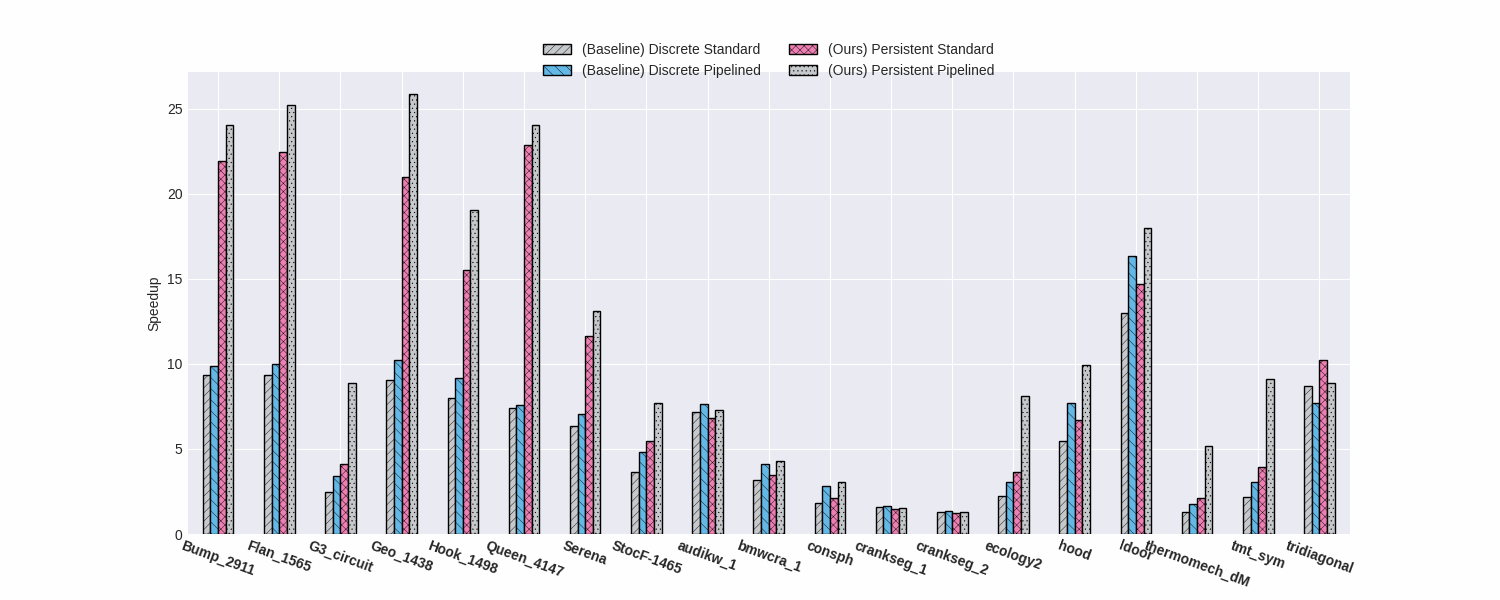
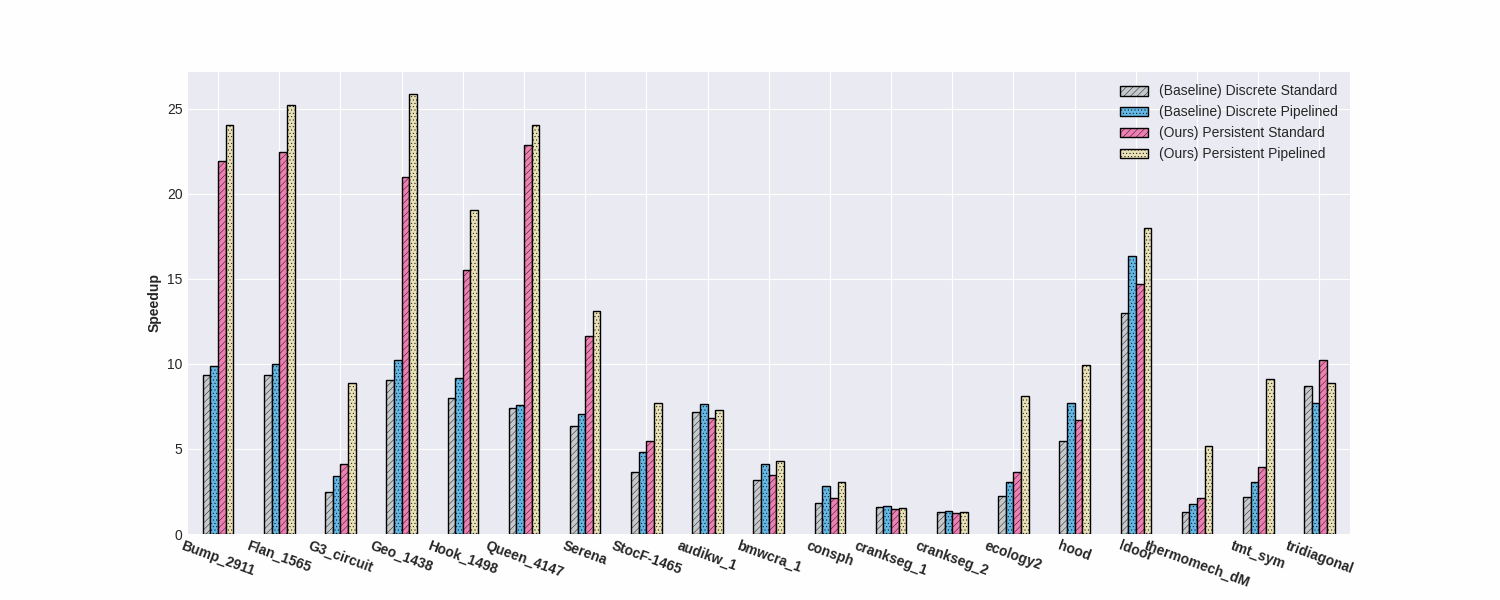
Use new color for last bar

diff --git a/CG/scripts/plots/plot_constant_num_gpus.py b/CG/scripts/plots/plot_constant_num_gpus.py
@@ -50,8 +50,13 @@ plt.style.use(
     'https://github.com/dhaitz/matplotlib-stylesheets/raw/master/pitayasmoothie-light.mplstyle')
 
 colors = [
-    '#c6c9cb', '#64b8e5', '#ee7fb2'
+    '#c6c9cb', '#64b8e5', '#ee7fb2', '#eae2b7'
 ]
+
+# Color candidates =>
+# - '#30becd' => Maximum Blue Green
+# - '#eae2b7' => Yellow
+
 
 files = get_files()
 
@@ -90,14 +95,14 @@ for file in files:
             color=colors, edgecolor='black', figsize=(15, 6))
 
         bars = axes.patches
-        patterns = ('////', '\\\\\\', 'xxxx', '....')
+        patterns = ('/////', '.....', '/////', '.....')
         hatches = [p for p in patterns for i in range(
             len(per_gpu_num_speedup))]
 
         for bar, hatch in zip(bars, hatches):
             bar.set_hatch(hatch)
 
-        axes.set_ylabel('Speedup')
+        axes.set_ylabel('Speedup', weight='bold')
         axes.set_xlabel(None)
         axes.set_title(f'Speedup per matrix on {gpu_num_column_label}')
         axes.legend()
@@ -106,10 +111,10 @@ for file in files:
         axes.set(title=None)
         # wrap_labels(axes, 10)
 
-        axes.legend(loc='upper center',
-                    bbox_to_anchor=(0.5,  # horizontal
-                                    1.09),  # vertical
-                    ncol=2, fancybox=True)
+        # axes.legend(loc='upper center',
+        #             bbox_to_anchor=(0.5,  # horizontal
+        #                             1.09),  # vertical
+        #             ncol=2, fancybox=True)
 
         # per_gpu_num_title = f'{title} ({matrix_name})'
         per_gpu_num_title = gpu_num_column_label
